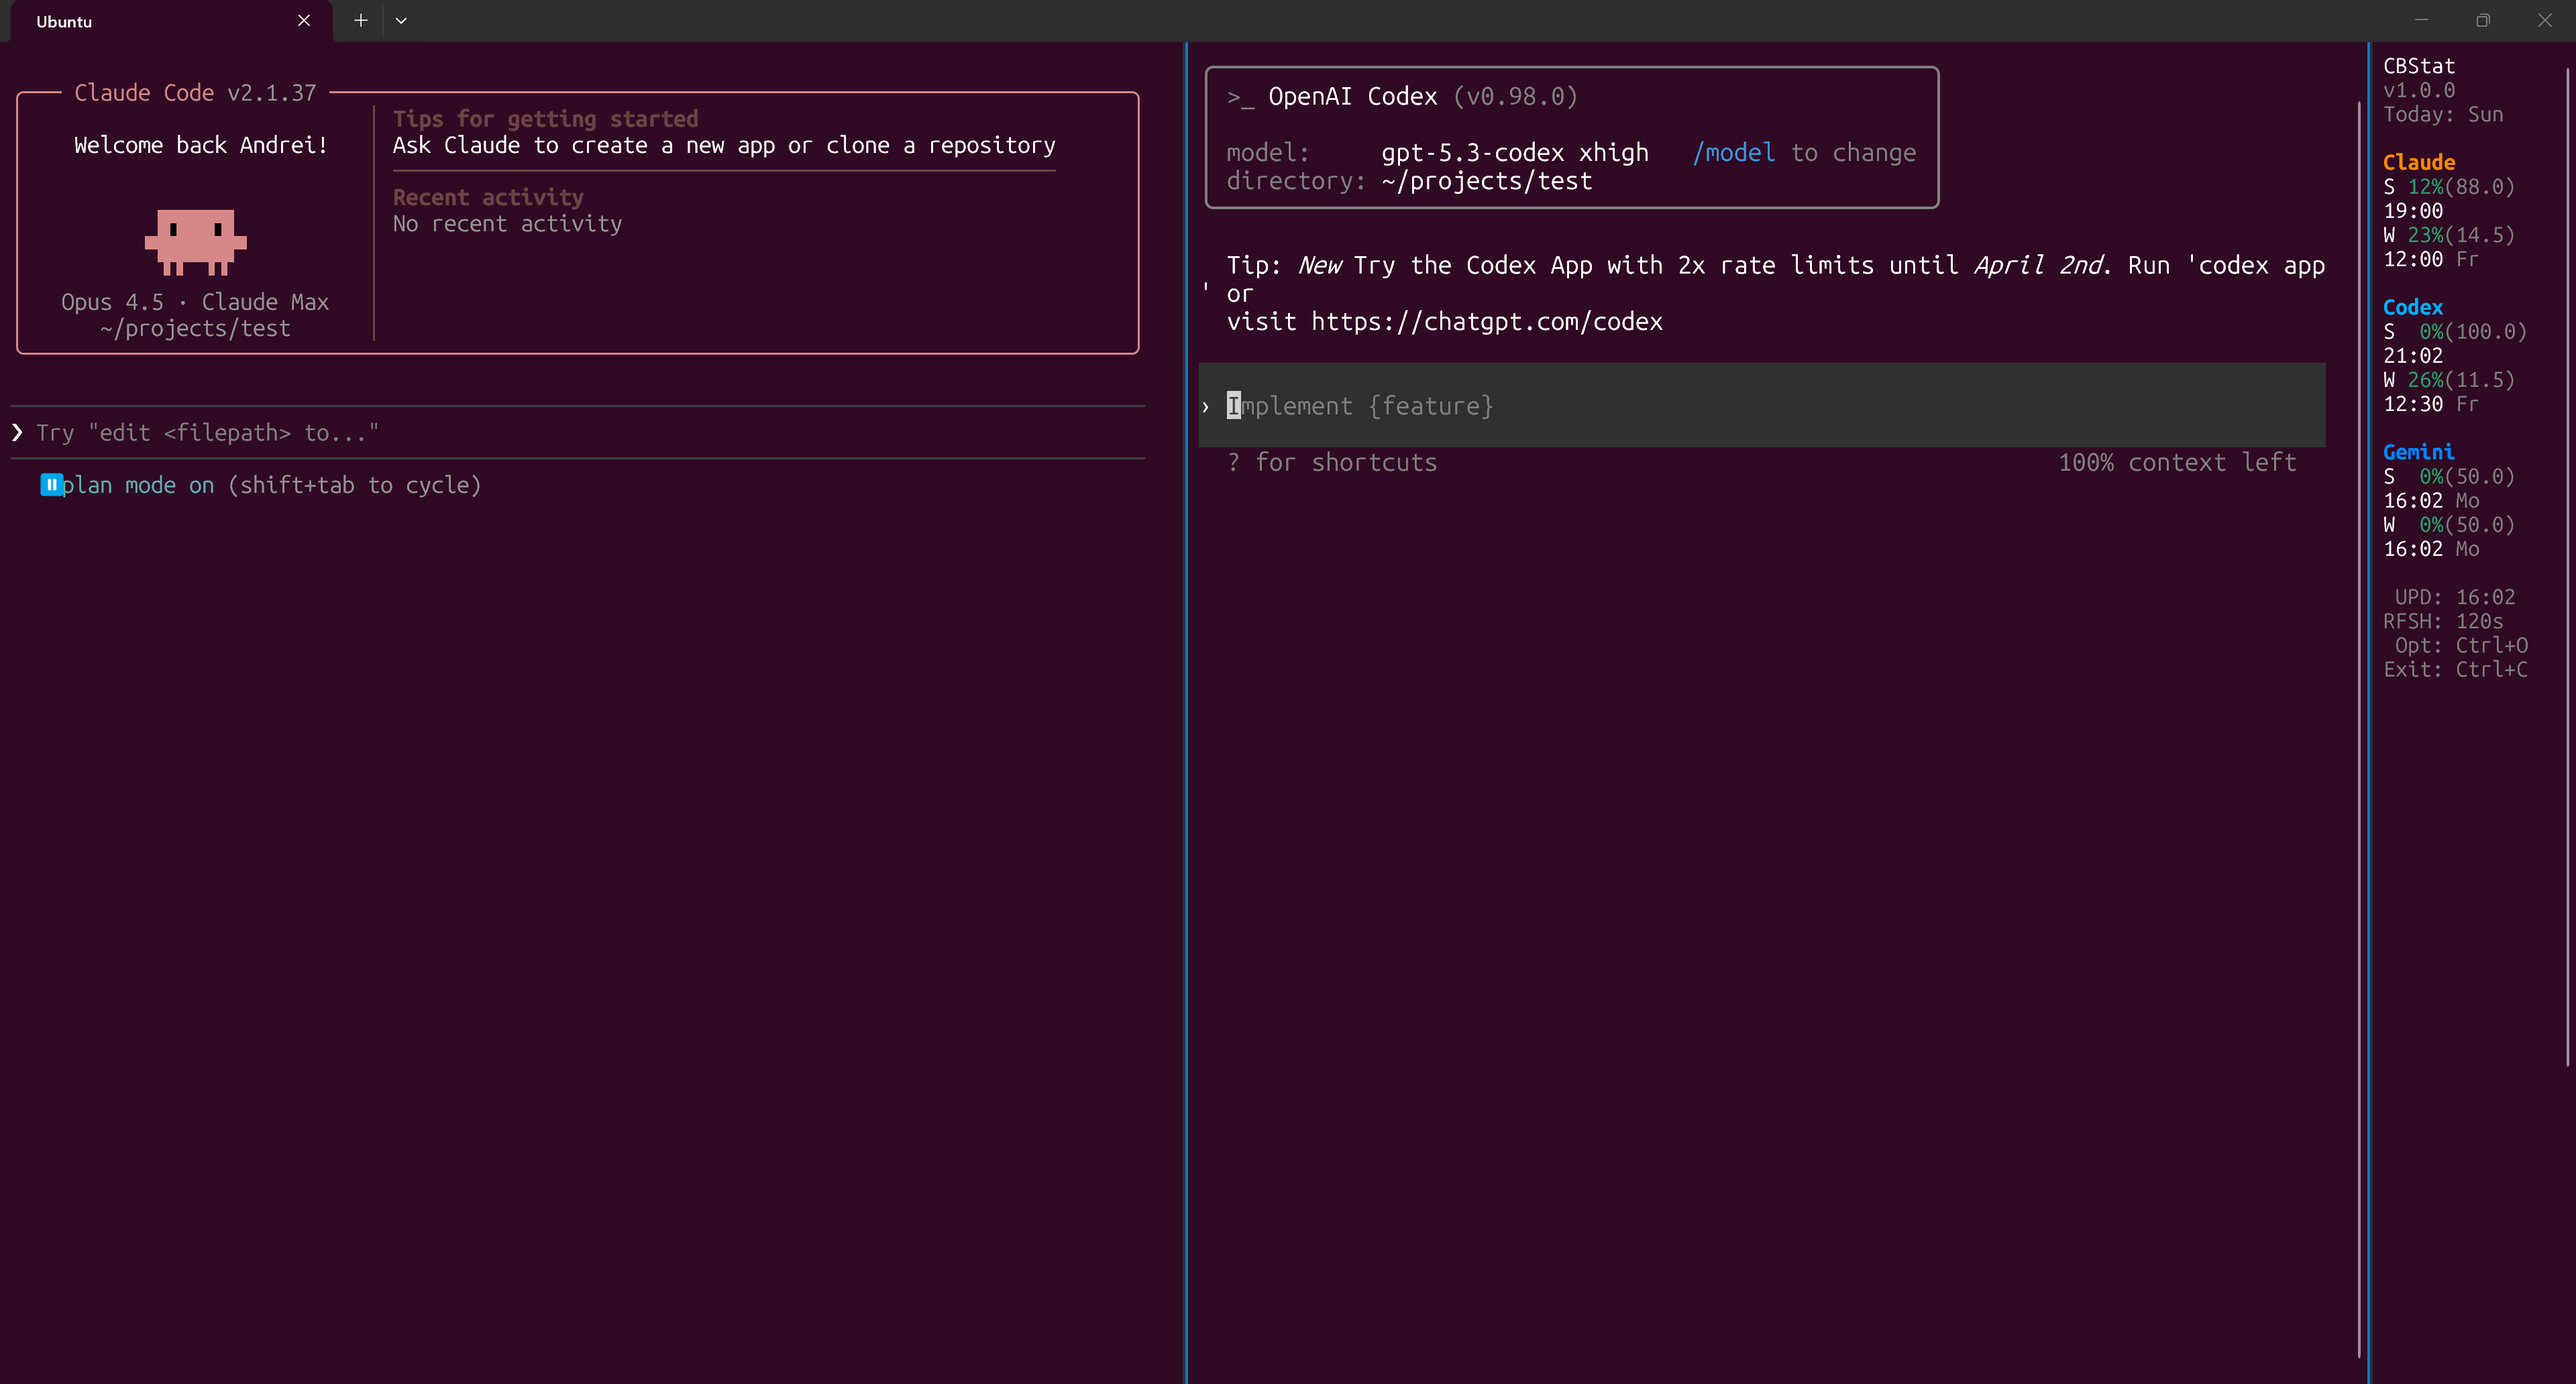
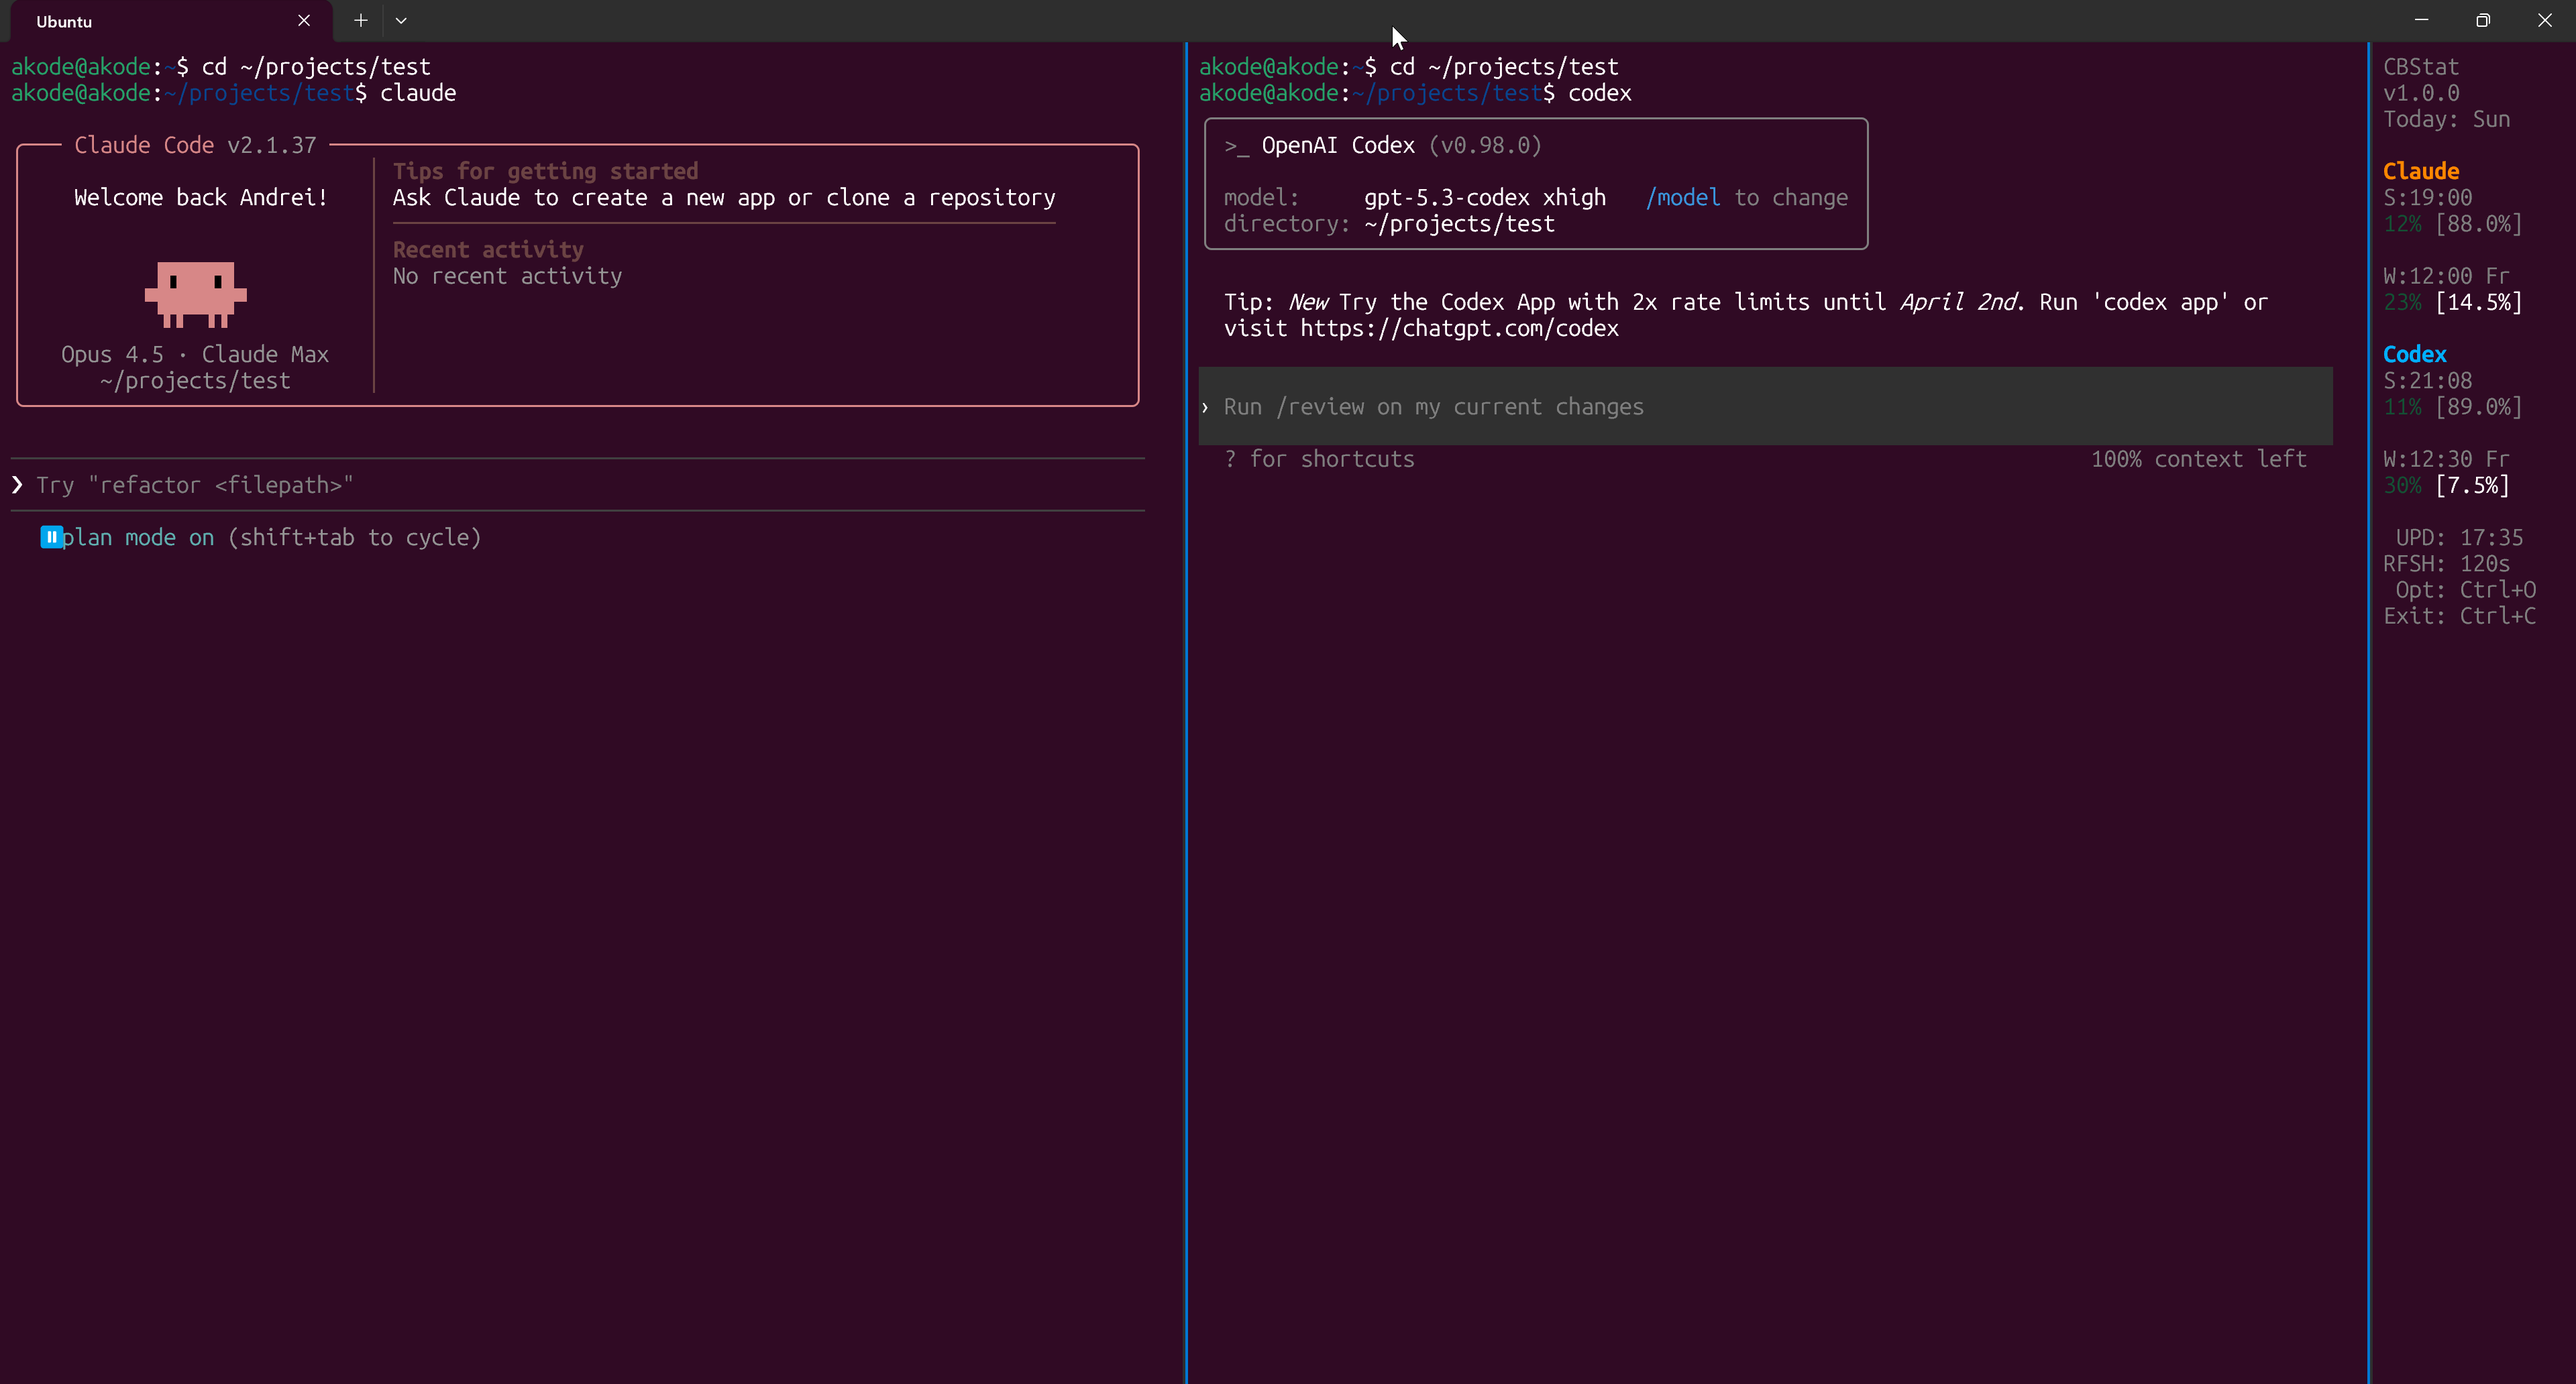
feat: refine compact view and prepare v1.2 release

diff --git a/src/Akode.CBStat/UI/ConsoleRenderer.cs b/src/Akode.CBStat/UI/ConsoleRenderer.cs
@@ -99,7 +99,7 @@ public class ConsoleRenderer
 
         var bar = new string('\u2588', filledWidth) + new string('\u2591', emptyWidth);
         var dailyBudget = window.GetDailyBudgetText(_workDayStartHour);
-        var budgetPart = string.IsNullOrEmpty(dailyBudget) ? "" : $" [dim]{dailyBudget}[/]";
+        var budgetPart = string.IsNullOrEmpty(dailyBudget) ? "" : $" [dim]{Markup.Escape(dailyBudget)}[/]";
 
         return new Markup($"{label,-8} [{color}]{bar}[/] {percent,3:F0}%{budgetPart}");
     }
@@ -124,7 +124,7 @@ public class ConsoleRenderer
         var providerName = FormatProviderName(data.Provider);
         var providerColor = GetProviderColor(data.Provider);
 
-        yield return new Markup($"[{providerColor} bold]{providerName}[/]");
+        yield return new Markup($"[{providerColor}][bold]{providerName}[/][/]");
 
         if (data.HasError)
         {
@@ -134,27 +134,50 @@ public class ConsoleRenderer
 
         if (data.Session != null)
         {
-            yield return new Markup(BuildCompactLine("S", data.Session));
+            foreach (var line in BuildCompactWindowRows("S", data.Session, emphasizeBudget: false))
+            {
+                yield return line;
+            }
+
+            if (data.Weekly != null)
+                yield return new Text("");
         }
 
         if (data.Weekly != null)
         {
-            yield return new Markup(BuildCompactLine("W", data.Weekly));
+            foreach (var line in BuildCompactWindowRows("W", data.Weekly, emphasizeBudget: true))
+            {
+                yield return line;
+            }
         }
     }
 
-    private string BuildCompactLine(string prefix, UsageWindow window)
+    private IEnumerable<IRenderable> BuildCompactWindowRows(string prefix, UsageWindow window, bool emphasizeBudget)
     {
         var percent = window.Percent;
         var color = GetPercentColor(percent);
 
-        var budget = window.ComputeDailyBudget(_workDayStartHour);
-        var budgetPart = budget.HasValue ? $"({budget:F1}%)" : "";
-
         var (time, day) = FormatResetShort(window.ResetAt);
-
         var dayPart = string.IsNullOrEmpty(day) ? "" : $" [dim]{day}[/]";
-        return $"{prefix} [{color}]{percent,2:F0}%[/][dim]{budgetPart,-8}[/] {time}{dayPart}";
+        yield return new Markup($"[dim]{prefix}:{time}[/]{dayPart}");
+
+        var budgetPart = BuildCompactBudgetPart(window, emphasizeBudget);
+        var percentPart = $"[{color} dim]{percent:F0}%[/]";
+        yield return string.IsNullOrEmpty(budgetPart)
+            ? new Markup(percentPart)
+            : new Markup($"{percentPart} {budgetPart}");
+    }
+
+    private string BuildCompactBudgetPart(UsageWindow window, bool emphasizeBudget)
+    {
+        var budget = window.GetDailyBudgetText(_workDayStartHour);
+        if (string.IsNullOrEmpty(budget))
+            return "";
+
+        var escapedBudget = Markup.Escape(budget);
+        return emphasizeBudget
+            ? $"[bold]{escapedBudget}[/]"
+            : $"[dim]{escapedBudget}[/]";
     }
 
     private static (string time, string day) FormatResetShort(DateTime? resetAt)

diff --git a/src/Akode.CBStat/Program.cs b/src/Akode.CBStat/Program.cs
@@ -47,7 +47,7 @@ while (true)
     var isCompact = settings.Settings.DisplayMode == DisplayMode.Compact;
     if (isCompact)
     {
-        AnsiConsole.MarkupLine($"[bold]CBStat[/] [dim]v{version}[/]");
+        AnsiConsole.MarkupLine($"[dim]CBStat[/] [dim]v{version}[/]");
     }
     else
     {
@@ -212,11 +212,11 @@ static IRenderable BuildDisplay(
             lines.Add("[yellow]DEV[/]");
         lines.Add($" UPD: {now:HH:mm}");
         lines.Add($"RFSH: {refreshSeconds}s");
-        lines.Add(" Opt: O/Ctrl+O");
+        lines.Add(" Opt: Ctrl+O");
         lines.Add("Exit: Ctrl+C");
 
         return new Rows(
-            new Markup($"[bold]CBStat[/] [dim]v{version}[/]"),
+            new Markup($"[dim]CBStat[/] [dim]v{version}[/]"),
             new Markup($"[dim]Today: {now:ddd}[/]\n"),
             content,
             new Markup($"\n[dim]{string.Join("\n", lines)}[/]")
@@ -224,7 +224,7 @@ static IRenderable BuildDisplay(
     }
 
     var devIndicator = devMode ? "[yellow]DEV[/] | " : string.Empty;
-    var statusLine = $"{refreshIndicator}{devIndicator}Updated: {now:HH:mm:ss} | Refresh: {refreshSeconds}s | [dim]O[/]=settings [dim]Ctrl+C[/]=quit";
+    var statusLine = $"{refreshIndicator}{devIndicator}Updated: {now:HH:mm:ss} | Refresh: {refreshSeconds}s | [dim]Ctrl+O[/]=settings [dim]Ctrl+C[/]=quit";
 
     return new Rows(
         new Markup($"[bold]CBStat[/] [dim]v{version}[/] - AI Provider Usage Monitor\n"),
@@ -240,7 +240,7 @@ static void MonitorKeys(CancellationToken ct, Action onSettings)
         if (Console.KeyAvailable)
         {
             var key = Console.ReadKey(intercept: true);
-            if (key.Key == ConsoleKey.O)
+            if (key.Key == ConsoleKey.O && key.Modifiers.HasFlag(ConsoleModifiers.Control))
             {
                 onSettings();
                 return;
@@ -264,7 +264,7 @@ static void ShowHelp()
     AnsiConsole.MarkupLine("  -h, --help                 Show this help");
     AnsiConsole.WriteLine();
     AnsiConsole.MarkupLine("[bold]Keyboard shortcuts:[/]");
-    AnsiConsole.MarkupLine("  O or Ctrl+O                Open settings");
+    AnsiConsole.MarkupLine("  Ctrl+O                     Open settings");
     AnsiConsole.MarkupLine("  Ctrl+C                     Quit");
     AnsiConsole.WriteLine();
     AnsiConsole.MarkupLine("[bold]Examples:[/]");

diff --git a/src/Akode.CBStat/Models/UsageData.cs b/src/Akode.CBStat/Models/UsageData.cs
@@ -93,6 +93,6 @@ public record UsageWindow
     public string GetDailyBudgetText(int workDayStartHour = 1)
     {
         var budget = ComputeDailyBudget(workDayStartHour);
-        return budget.HasValue ? $"({budget:F1}%)" : "";
+        return budget.HasValue ? $"[{budget:F1}%]" : "";
     }
 }

diff --git a/tests/Akode.CBStat.Tests/UsageWindowTests.cs b/tests/Akode.CBStat.Tests/UsageWindowTests.cs
@@ -222,7 +222,7 @@ public class UsageWindowTests
 
         var text = window.GetDailyBudgetText(workDayStartHour: 1);
 
-        text.Should().MatchRegex(@"\(\d+\.\d%\)");
+        text.Should().MatchRegex(@"\[\d+\.\d%\]");
     }
 
     [TestMethod]

diff --git a/README.md b/README.md
@@ -10,19 +10,28 @@ When you work for many hours, it is easy to spend too much quota early and get b
 
 `cbstat` shows:
 - current usage percent for each window
-- your safe daily pace in parentheses
+- your safe daily pace in square brackets
 - color risk level so you can spot overload early
 
 ## What numbers and colors mean
 
-Example line:
+Compact mode example:
 
 ```text
-W 23% (14.5%) 12:00 Fr
+S:19:00
+12% [88.0%]
+
+W:12:00 Fr
+23% [14.5%]
 ```
 
-- `23%` is current usage in this provider window.
-- `(14.5%)` is how much you can still safely spend today to stay on pace.
+- `S` means session window (intra-day window).
+- `W` means weekly window.
+- Time after `S:` / `W:` is the provider reset time for that specific window, shown in your local time.
+- For `S`, this is reset time of the intra-day session window.
+- For `W`, this is reset time of the weekly window.
+- `23%` is current usage in that provider window.
+- `[14.5%]` is how much you can still safely spend today to stay on pace.
 - Colors for the main percent:
 1. Green: under 50%
 2. Yellow: 50-79%
@@ -134,7 +143,7 @@ cbstat --dev
 
 Keyboard shortcuts:
 
-1. `O` or `Ctrl+O`: open settings
+1. `Ctrl+O`: open settings
 2. `Ctrl+C`: quit
 
 ## Day Start and daily pacing
@@ -144,7 +153,7 @@ Daily pacing uses your **local computer time**.
 Default day start is **01:00** local time.  
 You can change it in Settings -> `Day Start`.
 
-This matters because your "(daily pace)" value depends on where your personal day boundary starts.
+This matters because your "[daily pace]" value depends on where your personal day boundary starts.
 
 ## Real-life example
 
@@ -153,7 +162,7 @@ You work from 09:00 to 19:00 and usually do most heavy tasks in the morning.
 At 10:00 you see:
 
 ```text
-W 52% (6.0%)
+W 52% [6.0%]
 ```
 
 This means:
